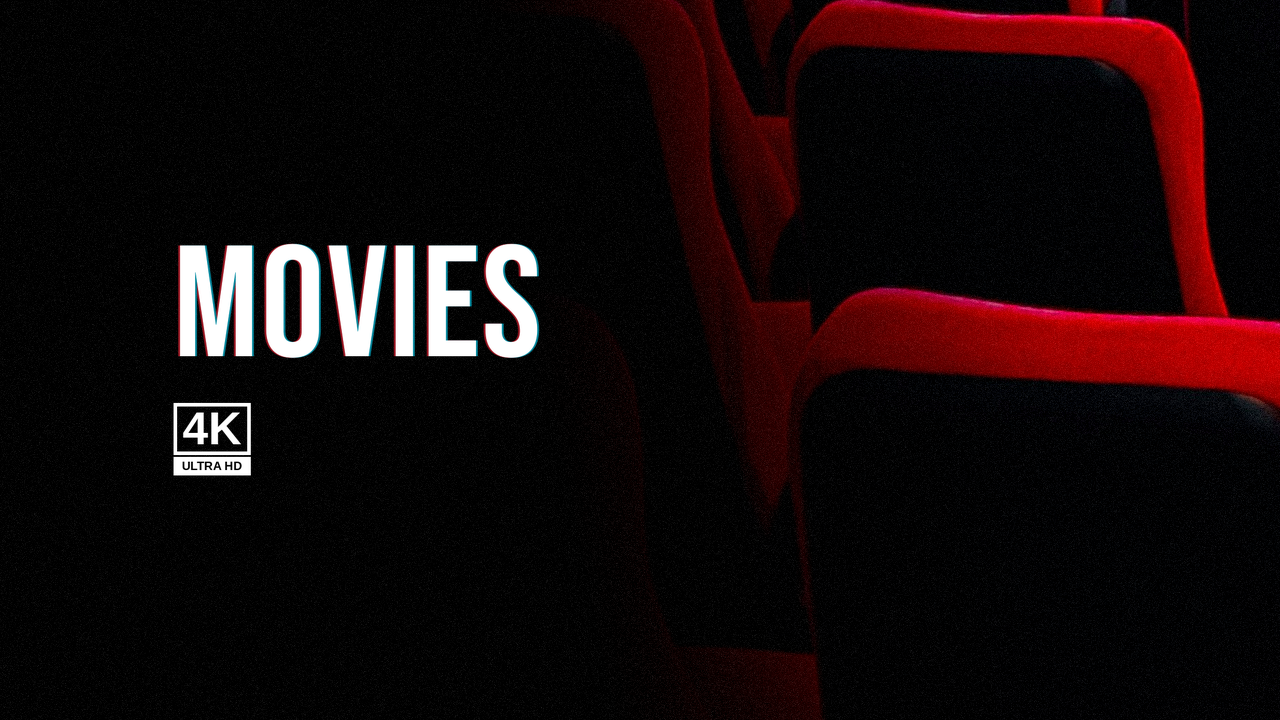
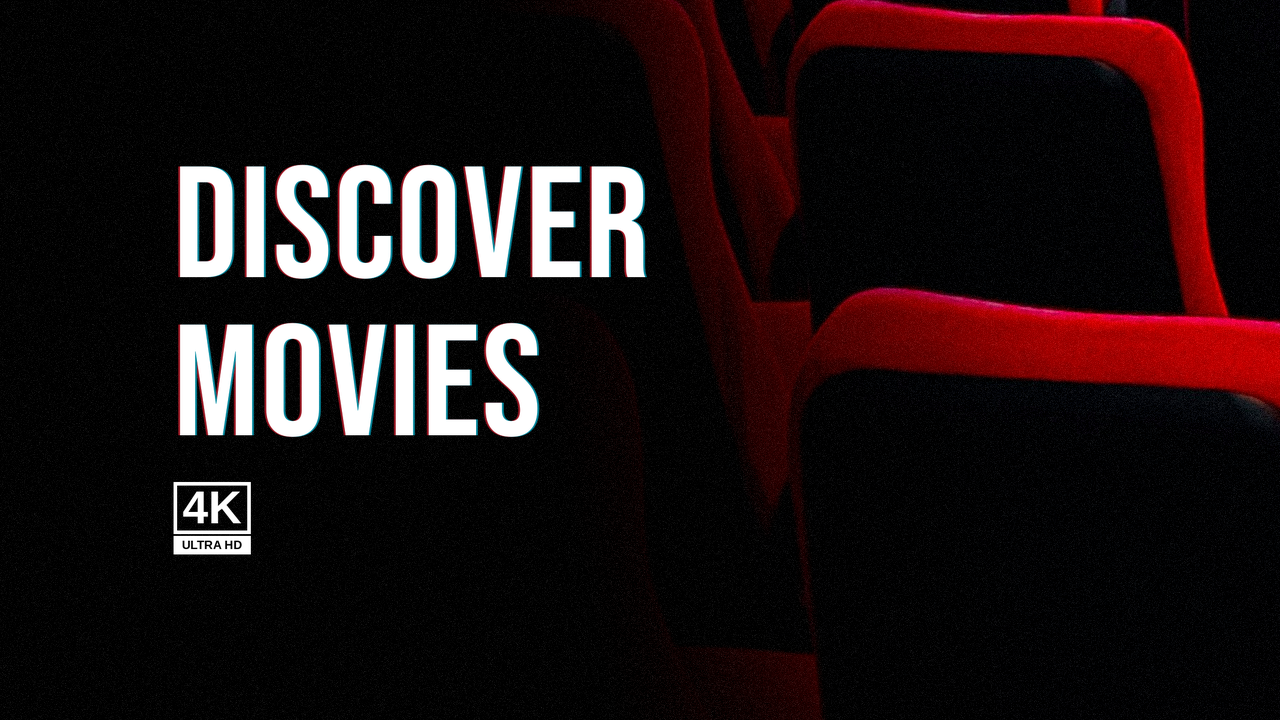
Relabel Movies tile to Discover Movies; correct CORS claim in docs

Changed region(s): [[0.125, 0.2139, 0.5312, 0.7944]]

diff --git a/README.md b/README.md
@@ -139,7 +139,5 @@ files are both generated from that list. For example, a highly-rated-only catalo
   metas require one.
 - **The endpoint rate-limits** despite its docs claiming otherwise. `REQUEST_DELAY` is set
   to 1 second with exponential backoff on 429.
-- **GitHub Pages sends no CORS headers.** Irrelevant for Nuvio (a native app), but this
-  addon won't work in Stremio's *web* client. Desktop and mobile Stremio are fine.
 - The build refuses to publish if it collects fewer than `MIN_TITLES` (150), so a bad API
   day leaves your existing catalog untouched rather than emptying it.

diff --git a/CLAUDE.md b/CLAUDE.md
@@ -156,8 +156,6 @@ whatever shape it actually writes. Don't assume the above is right.
   price change. This is not a complete inventory of every 4K title on the store.
 - For *Upgraded to 4K*, only the first ~50 entries are in true global upgrade order; the
   rest are appended genre by genre because of the 50-item cap.
-- GitHub Pages sends no CORS headers. Irrelevant for Nuvio (a native app), but this addon
-  won't load in Stremio's **web** client. Desktop and mobile Stremio are fine.
 
 ---
 
